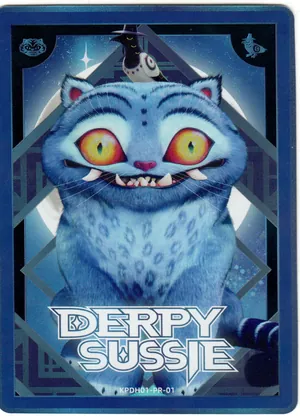
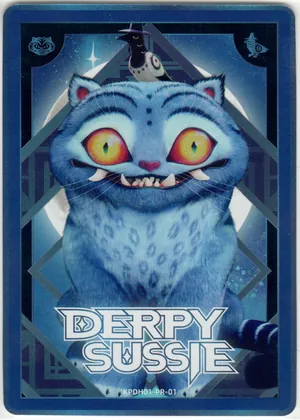
Replace KPDH promos with individual rescans
Use the owner's cleaner one-card 600 DPI scans, a single verified shared PR2 back, and explicit portrait/landscape rectification while retaining convention-promo backs that were not rescanned.\n\nCo-Authored-By: OpenAI Codex <noreply@openai.com>

diff --git a/kpdh-binder/my_card_planner.html b/kpdh-binder/my_card_planner.html
@@ -50,7 +50,7 @@ function addEdition(key,groups){const edition=key[0].toUpperCase()+key.slice(1),
 addEdition('energy',data.energy);addEdition('classic',data.classic);addEdition('mini',data.mini);
 // Codes, names and orientations below were checked against the owner's physical cards.
 // All eight have paired 600 DPI front/back scans dated 2026-11-06.
-[['KPDH01-PR1-01','Rumi','Energy box promo','portrait'],['KPDH01-PR1-02','Mira','Energy box promo','portrait'],['KPDH01-PR1-03','Zoey','Energy box promo','portrait'],['KPDH01-PR2-01','Rumi','Classic box promo','landscape'],['KPDH01-PR2-02','Zoey','Classic box promo','landscape'],['KPDH01-PR2-03','HUNTR/X','Classic box promo','landscape'],['KPDH01-PR-01','Derpy & Sussie','Convention promo','portrait'],['KPDH01-PR-02','Derpy','Convention promo','portrait']].forEach(([code,name,note,orientation])=>addCard({id:`Promo:${code}`,code,name,note,orientation,hasBack:true,physicalSource:'Owner-owned physical card, 600 DPI scan (2026-11-06)',rarity:'PR',rarityName:'Promotional',edition:'Promo',editions:['Promo'],series:1,setKey:'promo',setKeys:['promo'],sectionKey:'Promo'}));
+[['KPDH01-PR1-01','Rumi','Energy box promo','portrait'],['KPDH01-PR1-02','Mira','Energy box promo','portrait'],['KPDH01-PR1-03','Zoey','Energy box promo','portrait'],['KPDH01-PR2-01','Rumi','Classic box promo','landscape'],['KPDH01-PR2-02','Zoey','Classic box promo','landscape'],['KPDH01-PR2-03','HUNTR/X','Classic box promo','landscape'],['KPDH01-PR-01','Derpy & Sussie','Convention promo','portrait'],['KPDH01-PR-02','Derpy','Convention promo','portrait']].forEach(([code,name,note,orientation])=>addCard({id:`Promo:${code}`,code,name,note,orientation,hasBack:true,physicalSource:'Owner-owned physical card, 600 DPI scans (2026-11-06; selected rescans 2026-11-07)',rarity:'PR',rarityName:'Promotional',edition:'Promo',editions:['Promo'],series:1,setKey:'promo',setKeys:['promo'],sectionKey:'Promo'}));
 const series2Shared=new Set(['UR','TR','QR','SSR','SR']);
 for(const set of window.KPDH_SERIES2.sets){for(const sourceCard of set.cards){const existing=set.key==='classic-2'&&series2Shared.has(sourceCard.rarity)&&cardById.get(`energy-2:${sourceCard.code}`);if(existing){existing.editions.push('Classic');existing.setKeys.push(set.key);existing.sources.push({setKey:set.key,page:set.sourcePage,image:sourceCard.sourceImage});continue}addCard({...sourceCard,editions:[sourceCard.edition],setKeys:[set.key],sectionKey:set.key,sources:[{setKey:set.key,page:set.sourcePage,image:sourceCard.sourceImage}],releaseDate:set.releaseDate})}}
 const sectionDefs=[{key:'Energy',title:'Energy Edition · Series 1',description:'130 cards, including all shared Energy/Classic Series 1 printings'},{key:'Classic',title:'Classic Exclusives · Series 1',description:'40 CR, ZR, and R cards not shared with Energy Series 1'},{key:'Mini',title:'Special Mini Edition · Series 1',description:'41 miniature-format cards'},{key:'Promo',title:'Promotional Cards',description:'Known box and convention promos'},{key:'energy-2',title:'Energy Edition · Series 2',description:'142 cards, including shared Energy/Classic Series 2 printings · official release October 2026'},{key:'classic-2',title:'Classic Exclusives · Series 2',description:'36 CR, ZR, and R cards not shared with Energy Series 2 · official release October 2026'}];

diff --git a/kpdh-binder/scripts/build_promo_scans.py b/kpdh-binder/scripts/build_promo_scans.py
@@ -91,6 +91,33 @@ QUADS = {
     ("scan0330", "kpdh01-pr1-03"): (2600, 3650, 2600, 5850, 4310, 5850, 4300, 3650),
 }
 
+# The second scan pass put one physical card on each page. These replace the
+# corresponding crops from the crowded first-pass sheets above. Coordinates
+# follow Pillow's upper-left, lower-left, lower-right, upper-right QUAD order and
+# retain a narrow strip of the clear sleeve around the physical card. Landscape
+# PR2 cards were placed upright on the scanner and are rotated after rectifying.
+INDIVIDUAL_SCANS = {
+    "scan0331": ("fronts", (("kpdh01-pr1-01", "front", (40, 45, 40, 2130, 1525, 2130, 1525, 45), False),)),
+    "scan0332": ("backs", (("kpdh01-pr1-01", "back", (50, 35, 50, 2160, 1550, 2160, 1550, 35), False),)),
+    "scan0333": ("fronts", (("kpdh01-pr1-02", "front", (40, 40, 40, 2125, 1525, 2125, 1525, 40), False),)),
+    "scan0334": ("backs", (("kpdh01-pr1-02", "back", (50, 30, 50, 2160, 1570, 2160, 1570, 30), False),)),
+    "scan0335": ("fronts", (("kpdh01-pr1-03", "front", (40, 45, 40, 2135, 1530, 2135, 1530, 45), False),)),
+    "scan0336": ("fronts", (("kpdh01-pr2-01", "front", (40, 80, 40, 2180, 1530, 2180, 1530, 80), True),)),
+    "scan0337": (
+        "backs",
+        (
+            ("kpdh01-pr2-01", "back", (40, 5, 40, 2095, 1530, 2095, 1530, 5), True),
+            ("kpdh01-pr2-02", "back", (40, 5, 40, 2095, 1530, 2095, 1530, 5), True),
+            ("kpdh01-pr2-03", "back", (40, 5, 40, 2095, 1530, 2095, 1530, 5), True),
+        ),
+    ),
+    "scan0338": ("fronts", (("kpdh01-pr2-02", "front", (40, 110, 40, 2210, 1540, 2210, 1540, 110), True),)),
+    "scan0339": ("fronts", (("kpdh01-pr2-03", "front", (50, 105, 50, 2210, 1555, 2210, 1555, 105), True),)),
+    "scan0340": ("fronts", (("kpdh01-pr-02", "front", (45, 90, 45, 2200, 1540, 2200, 1540, 90), False),)),
+    "scan0341": ("fronts", (("kpdh01-pr-01", "front", (10, 10, 10, 2100, 1500, 2100, 1500, 10), False),)),
+    "scan0343": ("backs", (("kpdh01-pr1-03", "back", (50, 20, 50, 2170, 1550, 2170, 1550, 20), False),)),
+}
+
 
 def extract_embedded_jpeg(pdf: Path) -> bytes:
     """Return the single full-page JPEG stream embedded in a scanner PDF."""
@@ -109,6 +136,20 @@ def source_image(intake: Path, stem: str, temporary: Path) -> Path:
     if jpeg.is_file():
         return jpeg
     pdf = intake / sheet_folder / f"{stem}.pdf"
+    if not pdf.is_file():
+        raise FileNotFoundError(f"Missing {pdf}")
+    temporary.mkdir(parents=True, exist_ok=True)
+    destination = temporary / f"{stem}.jpg"
+    destination.write_bytes(extract_embedded_jpeg(pdf))
+    return destination
+
+
+def individual_source_image(intake: Path, stem: str, folder: str, temporary: Path) -> Path:
+    """Resolve a one-card rescan whose front/back folder is explicitly reviewed."""
+    jpeg = intake / folder / f"{stem}.jpg"
+    if jpeg.is_file():
+        return jpeg
+    pdf = intake / folder / f"{stem}.pdf"
     if not pdf.is_file():
         raise FileNotFoundError(f"Missing {pdf}")
     temporary.mkdir(parents=True, exist_ok=True)
@@ -166,6 +207,28 @@ def perspective_crop(source: Image.Image, quad: tuple[int, ...]) -> Image.Image:
     )
 
 
+def individual_crop(source: Image.Image, quad: tuple[int, ...], landscape: bool) -> Image.Image:
+    """Rectify a one-card scan, rotating cards printed in landscape orientation."""
+    crop = source.transform(
+        (1500, 2100),
+        Image.Transform.QUAD,
+        quad,
+        resample=Image.Resampling.BICUBIC,
+    )
+    # The landscape cards were placed with their printed top edge at the scanner's
+    # right side, so a clockwise turn restores the intended reading direction.
+    return crop.rotate(-90, expand=True) if landscape else crop
+
+
+def save_assets(crop: Image.Image, full: Path, thumb: Path) -> None:
+    """Write one prepared scan at full detail and as its optimized thumbnail."""
+    full.parent.mkdir(parents=True, exist_ok=True)
+    thumb.parent.mkdir(parents=True, exist_ok=True)
+    crop.save(full, "JPEG", quality=92, optimize=True, progressive=True, dpi=(600, 600))
+    crop.thumbnail((420, 420), Image.Resampling.LANCZOS)
+    crop.save(thumb, "WEBP", quality=80, method=6)
+
+
 def save_card(
     source: Image.Image,
     box: tuple[int, int, int, int],
@@ -177,11 +240,7 @@ def save_card(
     """Crop one reviewed card and save its full and thumbnail publishing assets."""
     source = ImageOps.exif_transpose(source).convert("RGB")
     crop = perspective_crop(source, quad) if quad else squared_crop(source.crop(box), angle)
-    full.parent.mkdir(parents=True, exist_ok=True)
-    thumb.parent.mkdir(parents=True, exist_ok=True)
-    crop.save(full, "JPEG", quality=92, optimize=True, progressive=True, dpi=(600, 600))
-    crop.thumbnail((420, 420), Image.Resampling.LANCZOS)
-    crop.save(thumb, "WEBP", quality=80, method=6)
+    save_assets(crop, full, thumb)
 
 
 def build(intake: Path, temporary: Path) -> None:
@@ -197,6 +256,22 @@ def build(intake: Path, temporary: Path) -> None:
                     box,
                     ROTATIONS[(stem, code)],
                     QUADS.get((stem, code)),
+                    ROOT / "cards" / folder / f"{code}.jpg",
+                    ROOT / "cards" / "thumbs" / folder / f"{code}.webp",
+                )
+
+    # Build the individually rescanned cards last so they supersede only the old
+    # assets they replace. PR-01/PR-02 backs intentionally remain from scan0326.
+    for stem, (source_folder, cards) in INDIVIDUAL_SCANS.items():
+        with Image.open(individual_source_image(intake, stem, source_folder, temporary)) as sheet:
+            if sheet.size != (5100, 6600):
+                raise ValueError(f"{stem} is {sheet.size}; expected the reviewed 5100 x 6600 scan")
+            source = ImageOps.exif_transpose(sheet).convert("RGB")
+            for code, face, quad, landscape in cards:
+                folder = "backs/promo" if face == "back" else "promo"
+                crop = individual_crop(source, quad, landscape)
+                save_assets(
+                    crop,
                     ROOT / "cards" / folder / f"{code}.jpg",
                     ROOT / "cards" / "thumbs" / folder / f"{code}.webp",
                 )

diff --git a/tests/test_kpdh_series2.py b/tests/test_kpdh_series2.py
@@ -159,7 +159,7 @@ def test_kpdh_promos_match_physical_cards_and_preserve_old_collections():
         assert f"['{code}','{name}'" in html
     assert "KPDH01-PR1-001','Rumi'" not in html
     assert "hasBack:true" in html
-    assert "600 DPI scan (2026-11-06)" in html
+    assert "600 DPI scans (2026-11-06; selected rescans 2026-11-07)" in html
     assert "detailFace='front'" in html
     assert "data-face=\"back\"" in html
     assert "version<5" in html
@@ -194,3 +194,7 @@ def test_kpdh_promo_crops_are_squared_to_physical_card_ratios():
     assert "Image.Transform.QUAD" in builder
     assert "* 1.03" in builder
     assert "def squared_crop(" in builder
+    assert "INDIVIDUAL_SCANS" in builder
+    assert '"scan0343": ("backs"' in builder
+    assert builder.count('(\"kpdh01-pr2-0') >= 6
+    assert "crop.rotate(-90, expand=True)" in builder

diff --git a/docs/kpdh_series2_plan.md b/docs/kpdh_series2_plan.md
@@ -29,6 +29,10 @@ its unrelated dashboard and operations commits.
   four-corner perspective correction with a narrow, even outer margin. This fixed Mira's
   notably tilted PR1-02 scans and the convention promos' off-center backs without altering
   the card artwork.
+  On 2026-11-07, individual scans 331-341 and 343 replaced the available multi-card-sheet
+  crops. Scan 337 is the physically identical back shared by all three PR2 promos; scan 342
+  is an unused duplicate of the selected Zoey front in scan 335. The original PR-01/PR-02
+  backs remain because those sides were not included in the individual rescan pass.
 - Verification: the full test suite passed (266 tests and 33 subtests); the local and public
   planner, catalog, representative Series 1/2 assets, redirects, noindex/security headers,
   root market page and container logs were checked after deployment.
